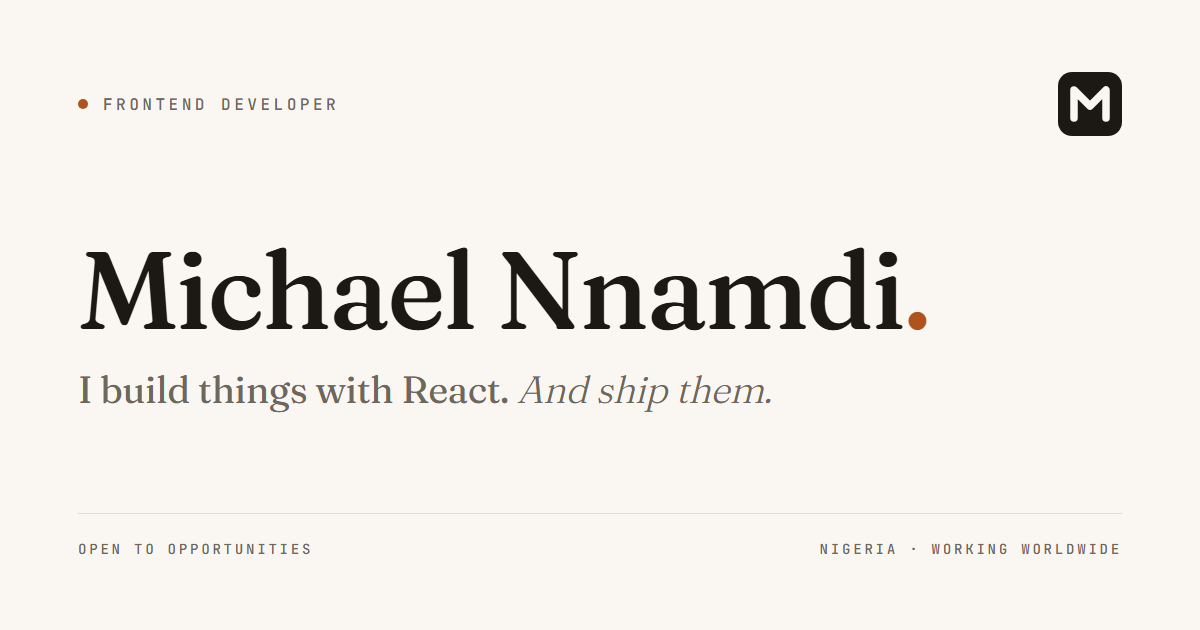
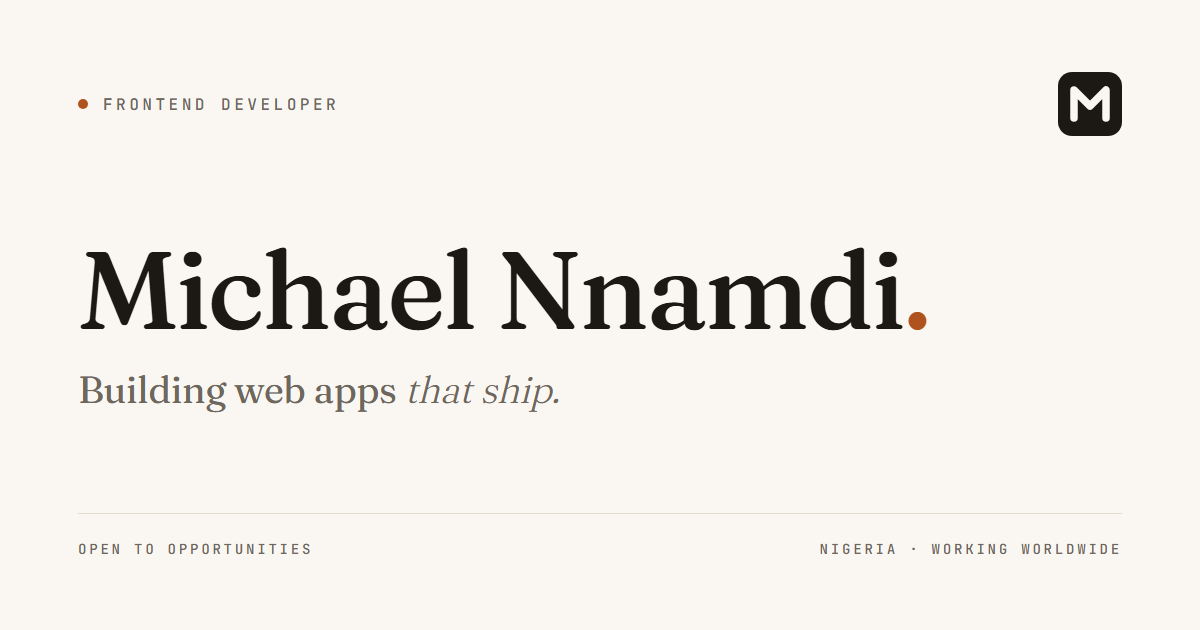
feat: replace the hero line with "Building web apps that ship"
Updates the headline, the derived tagline, both meta descriptions and the
regenerated og share card in one pass so no surface still says "I build
things with React".

Changed region(s): [[0.0617, 0.573, 0.6475, 0.6635]]

diff --git a/index.html b/index.html
@@ -23,7 +23,7 @@
     <meta property="og:title" content="Michael Nnamdi — Frontend Developer" />
     <meta
       property="og:description"
-      content="I build things with React. Shipped projects, honest skills and a published roadmap — one deployed project at a time."
+      content="Building web apps that ship. Shipped projects, honest skills and a published roadmap — one deployed project at a time."
     />
     <meta property="og:image" content="/og-image.png" />
     <meta property="og:image:width" content="1200" />
@@ -36,7 +36,7 @@
     <meta name="twitter:title" content="Michael Nnamdi — Frontend Developer" />
     <meta
       name="twitter:description"
-      content="I build things with React. Shipped projects, honest skills and a published roadmap — one deployed project at a time."
+      content="Building web apps that ship. Shipped projects, honest skills and a published roadmap — one deployed project at a time."
     />
     <meta name="twitter:image" content="/og-image.png" />
 

diff --git a/src-v2/sections/Hero.tsx b/src-v2/sections/Hero.tsx
@@ -1,5 +1,5 @@
 import { m, useReducedMotion } from 'framer-motion';
-import { site, buildsWith, stats } from '../data/site';
+import { site, stats } from '../data/site';
 import { scrollToSection } from '../lib/scroll';
 import { LineMask } from '../components/Reveal';
 import Magnetic from '../components/Magnetic';
@@ -25,9 +25,9 @@ export default function Hero() {
         <p className="mt-10 text-lg text-muted md:text-xl">Hi, I&apos;m {site.name}.</p>
 
         <h1 className="mt-2 font-display text-[clamp(2.75rem,8vw,6.5rem)] font-medium leading-[0.98] tracking-[-0.02em]">
-          <LineMask delay={0.15}>I build things</LineMask>
+          <LineMask delay={0.15}>Building web apps</LineMask>
           <LineMask delay={0.28}>
-            with {buildsWith}
+            that ship
             <span className="text-accent">.</span>
           </LineMask>
         </h1>

diff --git a/src-v2/data/site.ts b/src-v2/data/site.ts
@@ -35,7 +35,7 @@ export const site = {
   firstName: 'Michael',
   handle: 'michael.nnamdi',
   role: 'Frontend Developer',
-  tagline: `I build things with ${buildsWith}.`,
+  tagline: 'Building web apps that ship.',
   email: 'michaelnnamdi04@gmail.com',
   location: `${country} · working worldwide`,
   availability: 'Open to opportunities',
